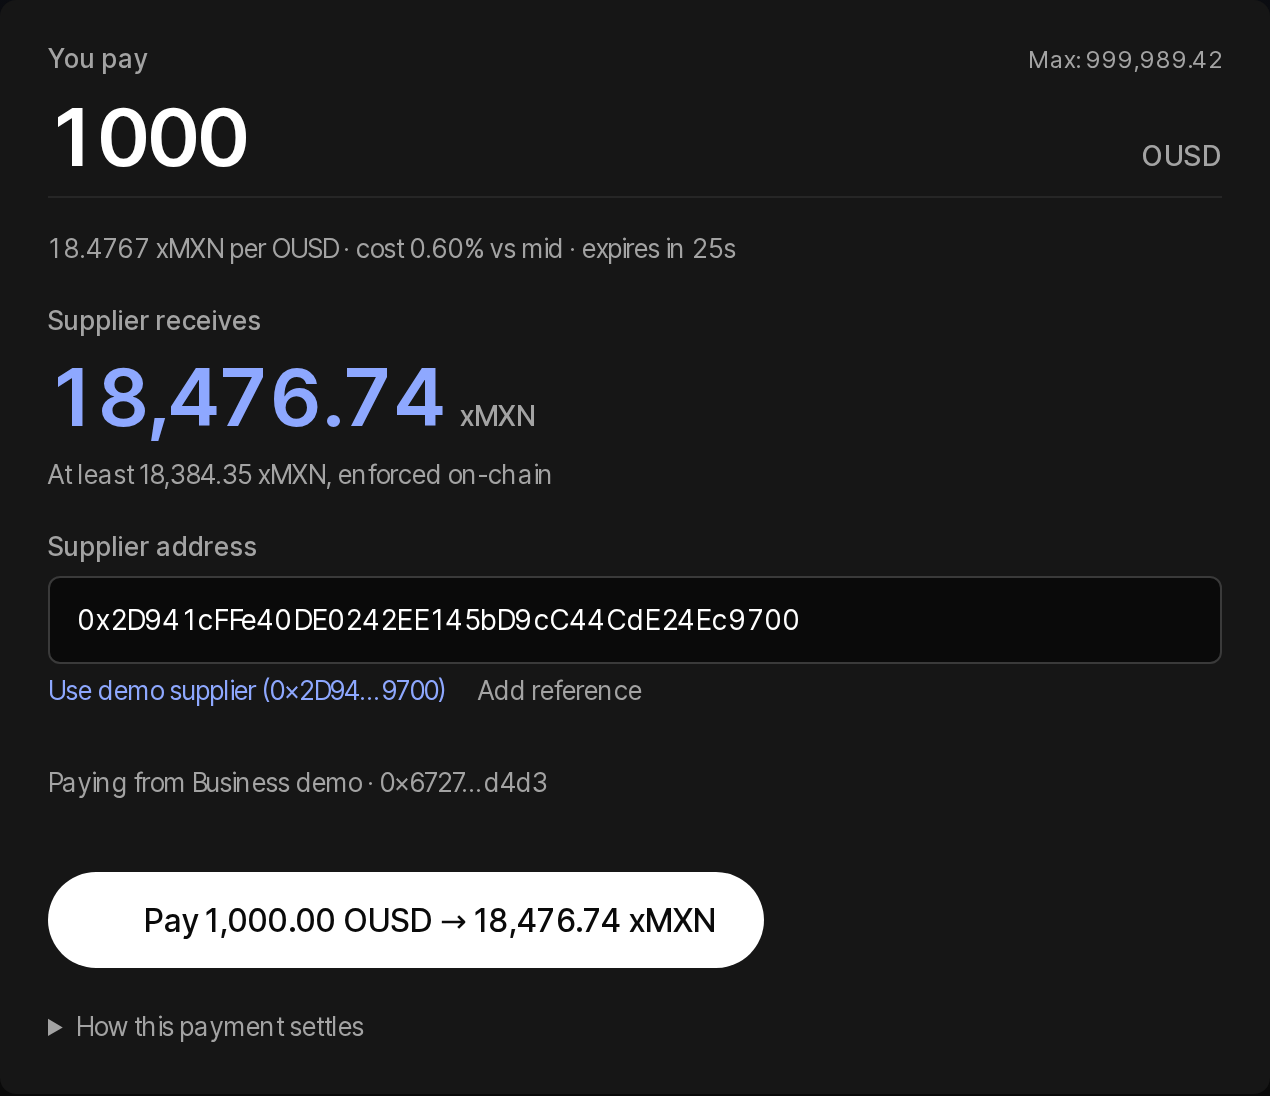
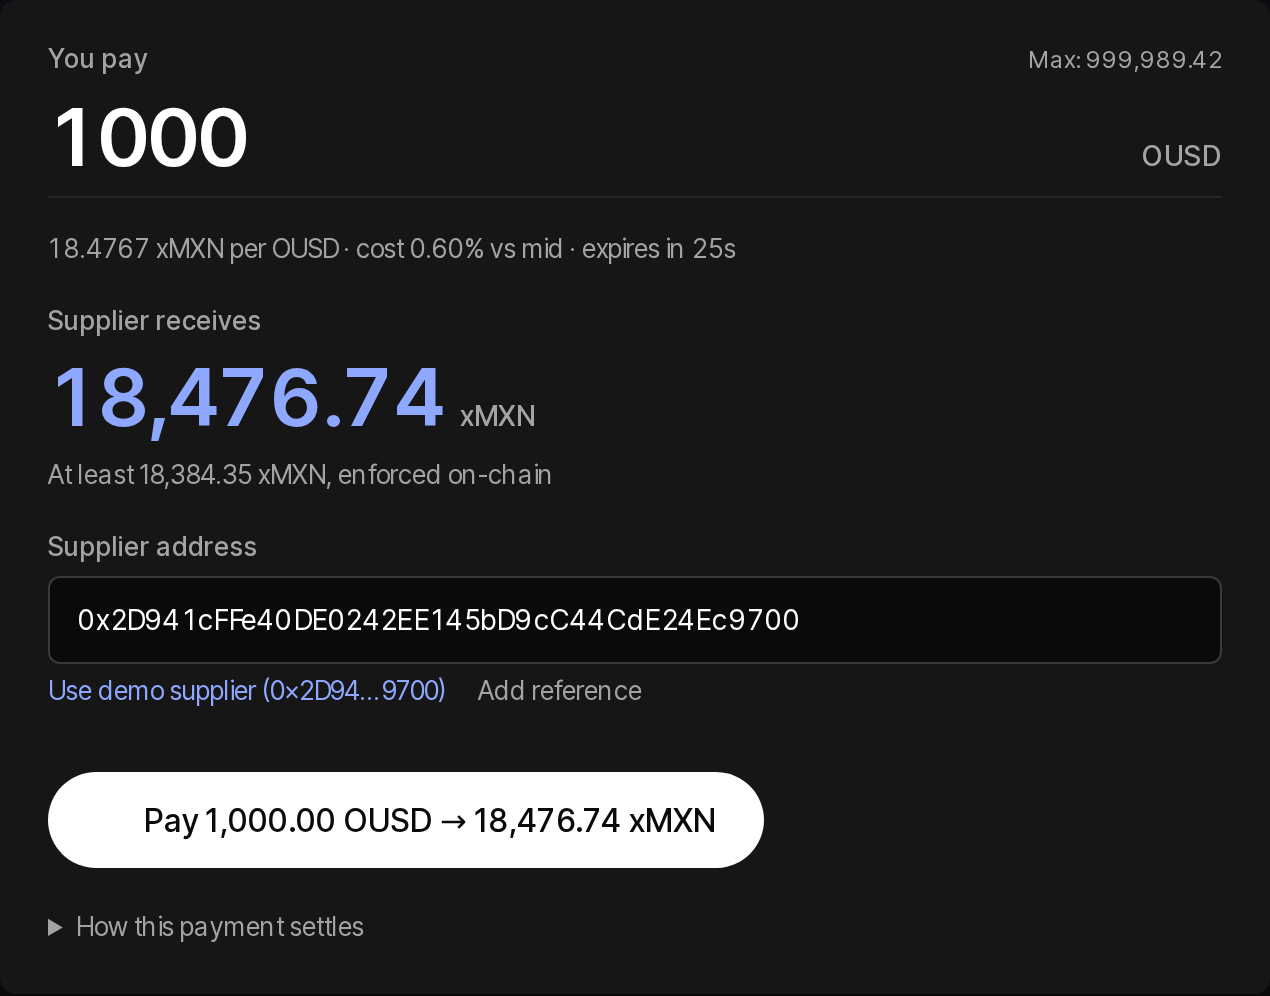
deck v8: act-invest without the wallet-balance line, act-global without the paying-account line (rows cut, no numbers changed)

diff --git a/deck/project/slides/global.html b/deck/project/slides/global.html
@@ -9,7 +9,7 @@
 <svg style="position:absolute;left:710px;top:648px" width="44" height="20" viewBox="0 0 44 20"><path d="M2 10 H38 M30 3 L38 10 L30 17" stroke="#5A5A5A" stroke-width="2.5" fill="none" stroke-linecap="round" stroke-linejoin="round"/></svg>
 <div data-build-in="rise 5" style="position:absolute;left:760px;top:614px;width:260px;display:flex;flex-direction:column;gap:18px"><div style="width:88px;height:88px;border-radius:50%;border:2px solid #6F8BF0;display:flex;align-items:center;justify-content:center"><svg width="42" height="42" viewBox="0 0 24 24" fill="none" stroke="#6F8BF0" stroke-width="1.75" stroke-linecap="round" stroke-linejoin="round"><path d="M15 21v-5a1 1 0 0 0-1-1h-4a1 1 0 0 0-1 1v5"/><path d="M17.774 10.31a1.12 1.12 0 0 0-1.549 0 2.5 2.5 0 0 1-3.451 0 1.12 1.12 0 0 0-1.548 0 2.5 2.5 0 0 1-3.452 0 1.12 1.12 0 0 0-1.549 0 2.5 2.5 0 0 1-3.77-3.248l2.889-4.184A2 2 0 0 1 7 2h10a2 2 0 0 1 1.653.873l2.895 4.192a2.5 2.5 0 0 1-3.774 3.244"/><path d="M4 10.95V19a2 2 0 0 0 2 2h12a2 2 0 0 0 2-2v-8.05"/></svg></div><p style="font-size:20px;text-transform:uppercase;letter-spacing:3px;font-weight:600;color:#8A8A8A">03</p><p style="font-size:32px;font-weight:600;line-height:1.2;color:#FFFFFF">Supplier gets pesos</p></div>
 <p data-build-in="fade 6" style="position:absolute;left:128px;top:892px;width:960px;font-size:24px;text-transform:uppercase;letter-spacing:3px;font-weight:600;color:#8A8A8A">Local piece · <span style="color:#6F8BF0">a business KYC partner</span></p>
-<img data-build-in="fade 6" src="/_blob/6d8c4fdde4b9d8bd7b8c91013364a654" alt="Mercado Global: pay 1,000 OUSD, the supplier receives the quoted pesos, before pressing Pay" style="position:absolute;left:1150px;top:288px;width:642px;height:554px;object-fit:contain;border-radius:16px;border:1px solid rgba(255,255,255,0.14);box-shadow:0 24px 64px rgba(0,0,0,0.55);background:#0A0A0A">
+<img data-build-in="fade 6" src="/_blob/6d8c4fdde4b9d8bd7b8c91013364a654" alt="Mercado Global: pay 1,000 OUSD, the supplier receives the quoted pesos, before pressing Pay" style="position:absolute;left:1150px;top:313px;width:642px;height:503px;object-fit:contain;border-radius:16px;border:1px solid rgba(255,255,255,0.14);box-shadow:0 24px 64px rgba(0,0,0,0.55);background:#0A0A0A">
 <p style="position:absolute;left:128px;bottom:64px;width:1200px;font-family:'Inter Tight', Arial, sans-serif;font-size:24px;color:#8A8A8A;text-transform:uppercase;letter-spacing:3px;font-weight:600">Mercado</p>
 <p style="position:absolute;right:128px;bottom:64px;width:120px;font-family:'Inter Tight', Arial, sans-serif;font-size:24px;text-align:right;color:#8A8A8A;text-transform:uppercase;letter-spacing:3px;font-weight:600">05</p>
 <aside>Global pays suppliers: a business enters dollars, sees a live quote with the fee, and the supplier receives pesos.</aside>

diff --git a/deck/project/slides/invest.html b/deck/project/slides/invest.html
@@ -9,7 +9,7 @@
 <svg style="position:absolute;left:710px;top:648px" width="44" height="20" viewBox="0 0 44 20"><path d="M2 10 H38 M30 3 L38 10 L30 17" stroke="#5A5A5A" stroke-width="2.5" fill="none" stroke-linecap="round" stroke-linejoin="round"/></svg>
 <div data-build-in="rise 5" style="position:absolute;left:760px;top:614px;width:260px;display:flex;flex-direction:column;gap:18px"><div style="width:88px;height:88px;border-radius:50%;border:2px solid #E5A823;display:flex;align-items:center;justify-content:center"><svg width="42" height="42" viewBox="0 0 24 24" fill="none" stroke="#E5A823" stroke-width="1.75" stroke-linecap="round" stroke-linejoin="round"><path d="M16 7h6v6"/><path d="m22 7-8.5 8.5-5-5L2 17"/></svg></div><p style="font-size:20px;text-transform:uppercase;letter-spacing:3px;font-weight:600;color:#8A8A8A">03</p><p style="font-size:32px;font-weight:600;line-height:1.2;color:#FFFFFF">Earn every second</p></div>
 <p data-build-in="fade 6" style="position:absolute;left:128px;top:892px;width:960px;font-size:24px;text-transform:uppercase;letter-spacing:3px;font-weight:600;color:#8A8A8A">Local piece · <span style="color:#E5A823">the local-currency vault</span></p>
-<img data-build-in="fade 6" src="/_blob/51be9db6d789c4240bca9968566a3540" alt="Mercado Invest: the deposit sheet with 100 OUSD into dollar savings, before pressing Depositar" style="position:absolute;left:1234px;top:155px;width:473px;height:820px;object-fit:contain">
+<img data-build-in="fade 6" src="/_blob/51be9db6d789c4240bca9968566a3540" alt="Mercado Invest: the deposit sheet with 100 OUSD into dollar savings, before pressing Depositar" style="position:absolute;left:1224px;top:155px;width:494px;height:820px;object-fit:contain">
 <p style="position:absolute;left:128px;bottom:64px;width:1200px;font-family:'Inter Tight', Arial, sans-serif;font-size:24px;color:#8A8A8A;text-transform:uppercase;letter-spacing:3px;font-weight:600">Mercado</p>
 <p style="position:absolute;right:128px;bottom:64px;width:120px;font-family:'Inter Tight', Arial, sans-serif;font-size:24px;text-align:right;color:#8A8A8A;text-transform:uppercase;letter-spacing:3px;font-weight:600">08</p>
 <aside>Invest saves it: dollars at five percent, pesos at eight, or a stocks index, accruing every second.</aside>
